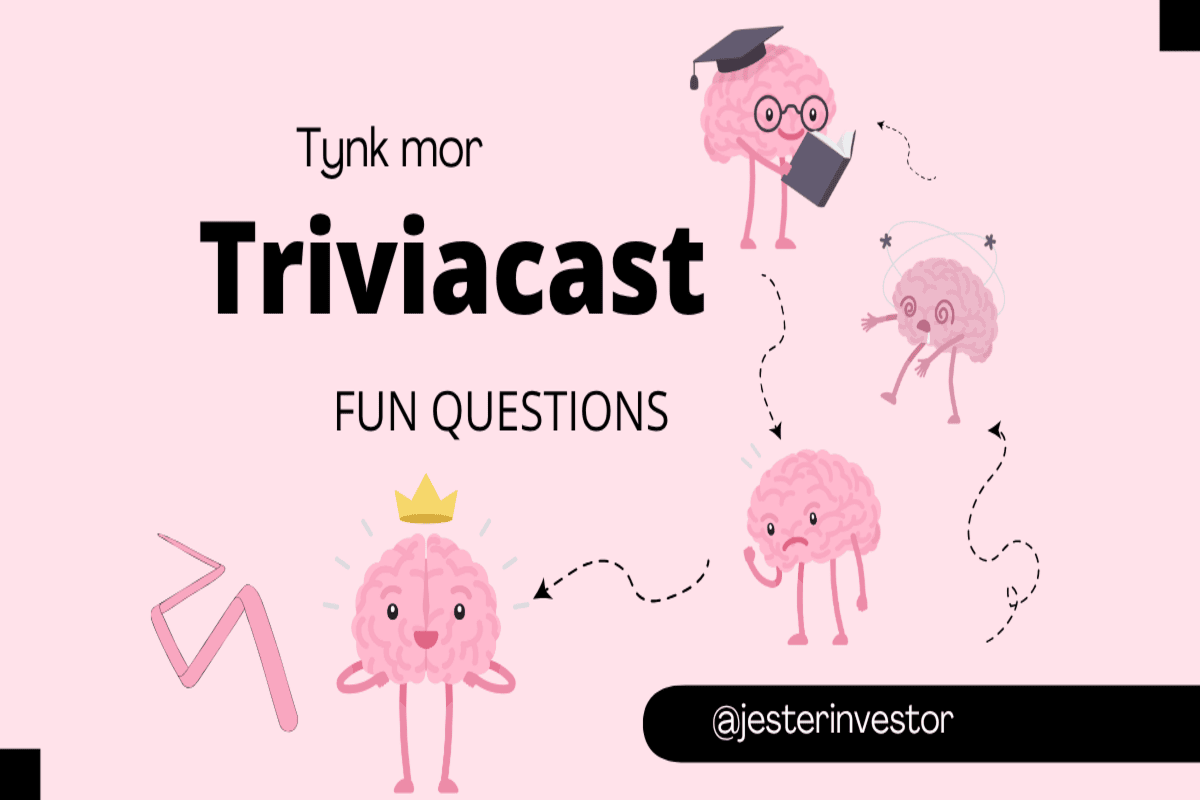
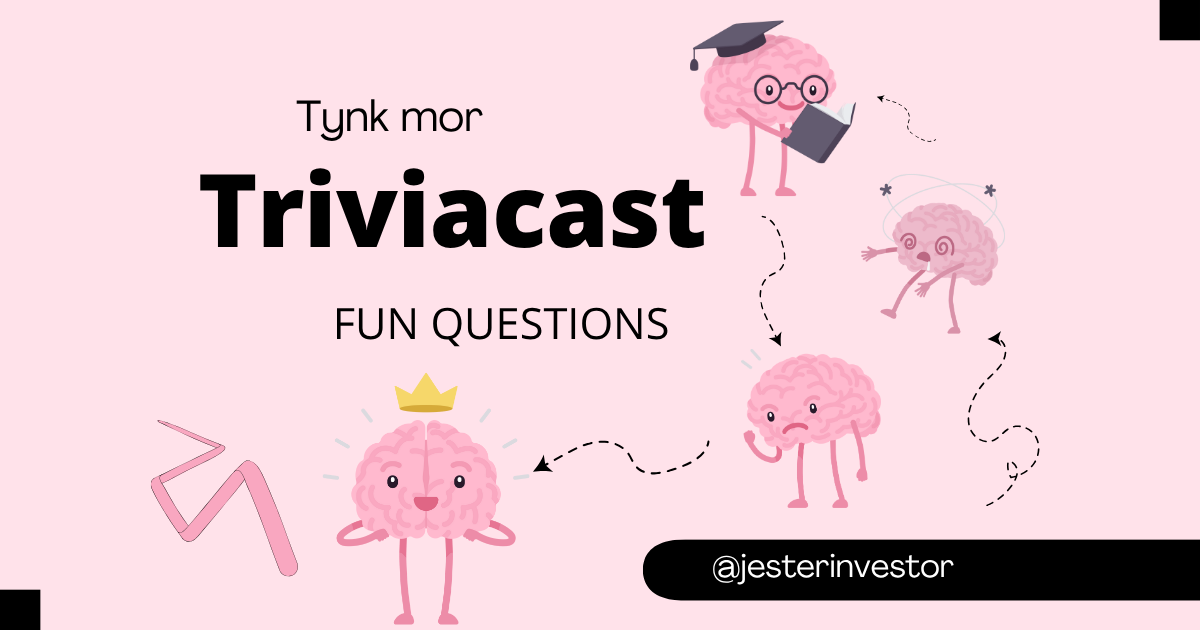
og image

diff --git a/app/layout.tsx b/app/layout.tsx
@@ -10,7 +10,7 @@ const wacky = Bangers({ subsets: ["latin"], weight: "400", variable: "--font-wac
 // renders a rich embed in Farcaster clients.
 const miniappObj = {
   version: '1',
-  imageUrl: 'https://triviacast.xyz/og-image.png',
+  imageUrl: 'https://triviacast.xyz/og-image1200x630.png',
   button: {
     title: 'Open Triviacast',
     action: {
@@ -31,7 +31,14 @@ export const metadata: Metadata = {
   openGraph: {
     title: 'Triviacast — Test your brain',
     description: 'Trivia quiz mini-game — challenge friends, earn T Points, and share your results.',
-    images: ['https://triviacast.xyz/og-image.png'],
+    images: [
+      {
+        url: 'https://triviacast.xyz/og-image1200x630.png',
+        width: 1200,
+        height: 630,
+        alt: 'Triviacast promotional image showing the app logo and sample question',
+      },
+    ],
   },
   twitter: {
     card: 'summary_large_image',
